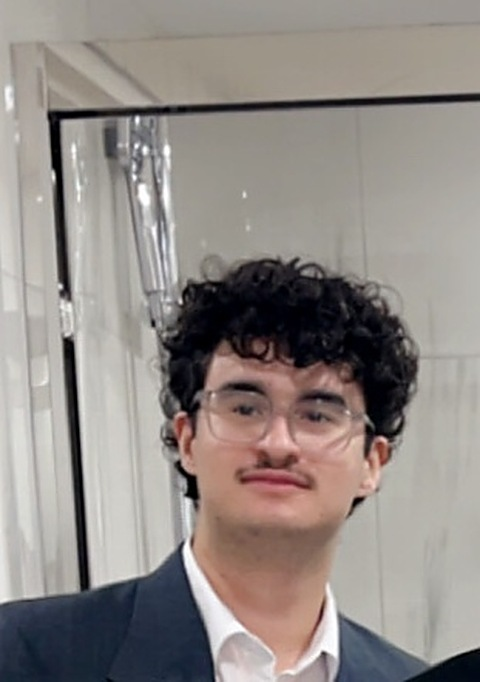
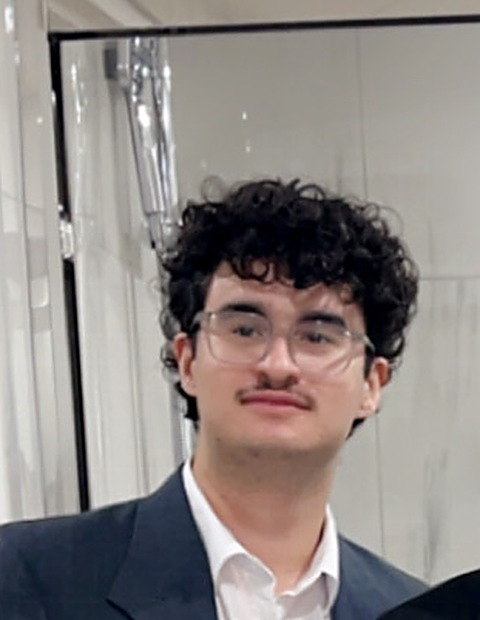
Trim headroom on the hero photo
Claude-Session: https://claude.ai/code/session_01NCsPjzQH26BwFkXfA8uy3x

diff --git a/index.html b/index.html
@@ -41,7 +41,7 @@
       </p>
     </div>
     <div class="hero-photo">
-      <img src="profile.jpg?v=8" alt="Adam Stepansky" width="480" height="682" />
+      <img src="profile.jpg?v=9" alt="Adam Stepansky" width="480" height="620" />
     </div>
   </header>
 
